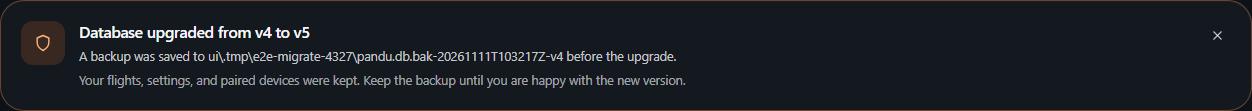
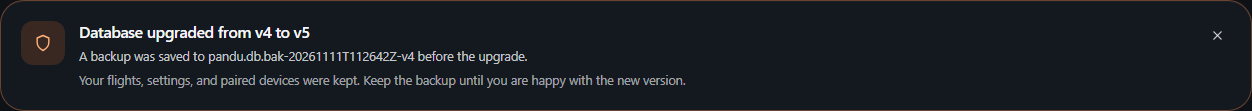
fix(settings): show resolved data folders and keep test paths out of the UI

Changed region(s): [[0.1558, 0.4595, 0.5607, 0.5676]]

diff --git a/ui/tests/unit/paths.test.ts b/ui/tests/unit/paths.test.ts
@@ -1,0 +1,57 @@
+import { describe, expect, it } from 'vitest';
+import {
+  displayFolderPath,
+  fileName,
+  isAbsoluteFolderPath,
+  parentFolderPath,
+} from '../../src/lib/paths';
+
+describe('isAbsoluteFolderPath', () => {
+  it('accepts Windows, UNC, and POSIX absolute paths', () => {
+    expect(isAbsoluteFolderPath('C:\\Users\\ana\\AppData\\Roaming\\Pandu')).toBe(true);
+    expect(isAbsoluteFolderPath('D:/Pandu/data')).toBe(true);
+    expect(isAbsoluteFolderPath('\\\\server\\share\\Pandu')).toBe(true);
+    expect(isAbsoluteFolderPath('/var/lib/pandu')).toBe(true);
+  });
+
+  it('rejects relative test and shell paths', () => {
+    expect(isAbsoluteFolderPath('ui\\.tmp\\e2e-update-4326')).toBe(false);
+    expect(isAbsoluteFolderPath('.pandu')).toBe(false);
+    expect(isAbsoluteFolderPath('')).toBe(false);
+  });
+});
+
+describe('displayFolderPath', () => {
+  it('shows a real folder and hides a test path', () => {
+    expect(displayFolderPath('C:\\Users\\ana\\AppData\\Roaming\\Pandu')).toBe(
+      'C:\\Users\\ana\\AppData\\Roaming\\Pandu',
+    );
+    expect(displayFolderPath('ui\\.tmp\\e2e-update-4326')).toBe('—');
+    expect(displayFolderPath(null)).toBe('—');
+  });
+});
+
+describe('parentFolderPath', () => {
+  it('turns a database file path into its folder', () => {
+    expect(parentFolderPath('C:\\Users\\ana\\AppData\\Roaming\\Pandu\\pandu.db')).toBe(
+      'C:\\Users\\ana\\AppData\\Roaming\\Pandu',
+    );
+    expect(parentFolderPath('/var/lib/pandu/pandu.db')).toBe('/var/lib/pandu');
+    expect(parentFolderPath('C:\\pandu.db')).toBe('C:\\');
+  });
+
+  it('never returns a relative path', () => {
+    expect(parentFolderPath('ui\\.tmp\\pandu.db')).toBe('—');
+  });
+});
+
+describe('fileName', () => {
+  it('shows only the backup file, never its folder', () => {
+    expect(fileName('C:\\ProgramData\\Pandu\\migrate\\pandu.db.bak-2026-v4')).toBe(
+      'pandu.db.bak-2026-v4',
+    );
+    expect(fileName('/var/lib/pandu/pandu.db.bak-2026-v4')).toBe('pandu.db.bak-2026-v4');
+    expect(fileName('pandu.db')).toBe('pandu.db');
+    expect(fileName(null)).toBe('—');
+  });
+});

diff --git a/ui/src/lib/BackupCard.svelte b/ui/src/lib/BackupCard.svelte
@@ -5,6 +5,7 @@
   import { CLI_COMMAND, REPOSITORY } from './brand';
   import { copyText } from './clipboard';
   import { t } from './i18n/i18n.svelte';
+  import { displayFolderPath, parentFolderPath } from './paths';
   import { toast } from './toast-store.svelte';
 
   let copied = $state<string | null>(null);
@@ -13,9 +14,13 @@
   let lastBackup = $state<string | null>(null);
   let lastBytes = $state(0);
 
-  const database = $derived(daemonState.health?.databasePath ?? '—');
-  const dataDir = $derived(daemonState.health?.dataDir ?? database);
-  const backupsDir = $derived(daemonState.health?.backupsDir ?? '—');
+  const dataDir = $derived.by(() => {
+    const health = daemonState.health;
+    if (health?.dataDir) return displayFolderPath(health.dataDir);
+    if (health?.databasePath) return parentFolderPath(health.databasePath);
+    return '—';
+  });
+  const backupsDir = $derived(displayFolderPath(daemonState.health?.backupsDir));
   const backupCommand = `${CLI_COMMAND} backup`;
   const encryptedBackupCommand = `${CLI_COMMAND} backup --encrypt`;
   const restoreCommand = `${CLI_COMMAND} restore <archive>`;
@@ -95,7 +100,7 @@
     <div>
       <dt>{t('settings.backupDataFolder')}</dt>
       <dd class="backup-path">
-        <code>{dataDir}</code>
+        <code data-backup-data-path>{dataDir}</code>
         <button
           class="btn btn--small btn--ghost"
           type="button"
@@ -110,7 +115,7 @@
     <div>
       <dt>{t('settings.backupBackupFolder')}</dt>
       <dd class="backup-path">
-        <code>{backupsDir}</code>
+        <code data-backup-backups-path>{backupsDir}</code>
         <button
           class="btn btn--small btn--ghost"
           type="button"

diff --git a/ui/src/lib/paths.ts b/ui/src/lib/paths.ts
@@ -1,0 +1,40 @@
+/**
+ * Filesystem paths shown in Settings.
+ *
+ * The daemon resolves its configured home before reporting it, so a real
+ * installation always sends an absolute path. This guard keeps a relative
+ * test or shell path out of the UI even if a caller sends one.
+ */
+
+const DRIVE = /^[a-zA-Z]:[\\/]/;
+const UNC = /^\\\\[^\\]+\\[^\\]+/;
+
+export function isAbsoluteFolderPath(value: string): boolean {
+  return DRIVE.test(value) || UNC.test(value) || value.startsWith('/');
+}
+
+/** A displayable folder path, or an em dash when the value is not real. */
+export function displayFolderPath(value: string | null | undefined): string {
+  const path = value?.trim() ?? '';
+  if (!path || !isAbsoluteFolderPath(path)) return '—';
+  return path;
+}
+
+/** The folder containing a file path. Used when only `databasePath` is known. */
+export function parentFolderPath(value: string | null | undefined): string {
+  const path = displayFolderPath(value);
+  if (path === '—') return path;
+  const index = Math.max(path.lastIndexOf('/'), path.lastIndexOf('\\'));
+  if (index < 0) return path;
+  if (index === 0) return '/';
+  if (index === 2 && DRIVE.test(path)) return path.slice(0, 3);
+  return path.slice(0, index);
+}
+
+/** The last segment of a path, for showing a file without its test folder. */
+export function fileName(value: string | null | undefined): string {
+  const path = value?.trim() ?? '';
+  if (!path) return '—';
+  const index = Math.max(path.lastIndexOf('/'), path.lastIndexOf('\\'));
+  return index >= 0 ? path.slice(index + 1) : path;
+}

diff --git a/ui/tests/e2e/phase10.spec.ts b/ui/tests/e2e/phase10.spec.ts
@@ -211,6 +211,16 @@ test.describe.serial('phase 10: updates, migrations, and data safety', () => {
     await expect(backup).toContainText('turns remote access off');
     await expect(backup).toContainText('Data folder');
     await expect(backup).toContainText('Open folder');
+    // The daemon reports resolved, absolute folders. A repository-relative
+    // test path must never reach the Settings screen or the screenshots.
+    const dataPath = await backup.locator('[data-backup-data-path]').textContent();
+    const backupsPath = await backup.locator('[data-backup-backups-path]').textContent();
+    const absolute = /^(?:[A-Za-z]:[\\/]|\\\\|\/)/;
+    expect(dataPath).toMatch(absolute);
+    expect(backupsPath).toMatch(absolute);
+    expect(dataPath).not.toContain('.tmp');
+    expect(backupsPath).not.toContain('.tmp');
+    expect(backupsPath).toContain('backups');
     await expect(backup.getByRole('button', { name: 'Create backup now' })).toBeEnabled();
     await shotOf(page, '[data-backup-card]', 'settings-backup.png');
   });

diff --git a/ui/src/lib/MigrationNotice.svelte b/ui/src/lib/MigrationNotice.svelte
@@ -3,6 +3,7 @@
   import { daemonState } from './api/daemon.svelte';
   import { storageKey } from './brand';
   import { t } from './i18n/i18n.svelte';
+  import { fileName } from './paths';
 
   const DISMISSED_KEY = storageKey('migration.notice');
 
@@ -46,7 +47,7 @@
       <h2>{t('migration.title', { from: migration.fromVersion, to: migration.toVersion })}</h2>
       <p>
         {#if migration.backupPath}
-          {t('migration.backup', { path: migration.backupPath })}
+          {t('migration.backup', { path: fileName(migration.backupPath) })}
         {:else}
           {t('migration.noBackup')}
         {/if}

diff --git a/crates/pandu-daemon/src/api.rs b/crates/pandu-daemon/src/api.rs
@@ -102,14 +102,24 @@ pub async fn health(State(state): State<AppState>) -> Response {
             "ok": database_ok,
             "version": pandu_core::VERSION,
             "database": if database_ok { "ok" } else { "unavailable" },
-            "databasePath": state.config.database_path.display().to_string(),
-            "dataDir": state.config.home.display().to_string(),
-            "backupsDir": backups_directory(&state).display().to_string(),
+            "databasePath": display_path(&state.config.database_path),
+            "dataDir": display_path(&state.config.home),
+            "backupsDir": display_path(&backups_directory(&state)),
             "uptimeMs": state.started_at.elapsed().as_millis() as u64,
             "demoMode": state.config.demo_mode,
         })),
     )
         .into_response()
+}
+
+/// Resolve a configured path against the working directory before showing it.
+/// A relative path is a test or shell convenience, not a real data location;
+/// the UI must never present one as if it were the user's folder.
+fn display_path(path: &std::path::Path) -> String {
+    std::path::absolute(path)
+        .unwrap_or_else(|_| path.to_path_buf())
+        .display()
+        .to_string()
 }
 
 fn backups_directory(state: &AppState) -> PathBuf {
@@ -1908,5 +1918,23 @@ fn demo_request(
         system_prompt: Some(system.to_string()),
         prompt_text: Some(prompt.to_string()),
         redaction_count: 0,
+    }
+}
+
+#[cfg(test)]
+mod tests {
+    use super::display_path;
+
+    #[test]
+    fn a_relative_data_path_is_resolved_before_it_reaches_the_ui() {
+        let relative = std::path::Path::new("ui")
+            .join(".tmp")
+            .join("e2e-update-4326");
+        let shown = display_path(&relative);
+        assert!(
+            std::path::Path::new(&shown).is_absolute(),
+            "health must report an absolute path, got {shown}"
+        );
+        assert!(!shown.starts_with("ui"), "the relative form leaked: {shown}");
     }
 }
